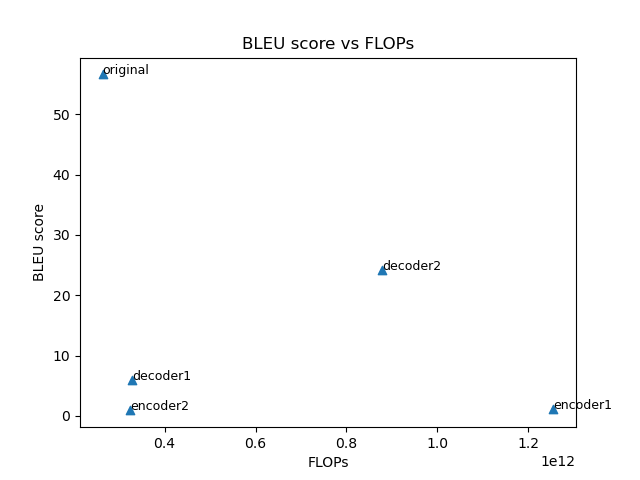
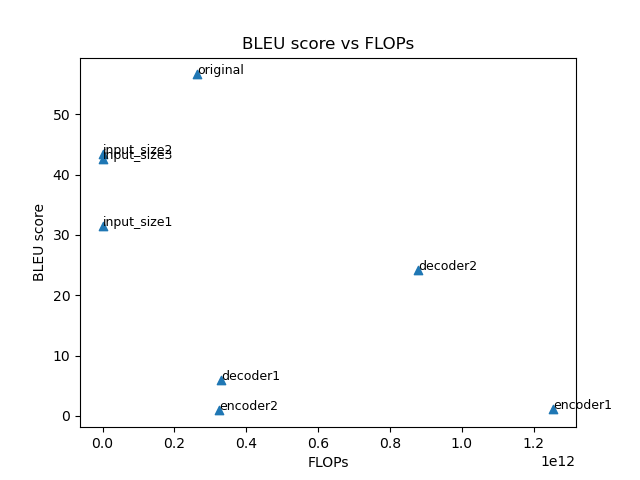
Add variable input sizes

diff --git a/lab2.py b/lab2.py
@@ -70,10 +70,25 @@ def main():
         config['encoder_conf']['linear_units'] = 1024
         return config
 
+    def input_size1(config: dict):
+        config['frontend_conf']['hop_length'] = 200
+        return config
+
+    def input_size2(config: dict):
+        config['frontend_conf']['hop_length'] = 250
+        return config
+
+    def input_size3(config: dict):
+        config['frontend_conf']['hop_length'] = 300
+        return config
+
     benchmark_modified_model(args, 'encoder1', pipeline.st_model, pretrained_config, utt2wav, utt2text, encoder1)
     benchmark_modified_model(args, 'encoder2', pipeline.st_model, pretrained_config, utt2wav, utt2text, encoder2)
     benchmark_modified_model(args, 'decoder1', pipeline.st_model, pretrained_config, utt2wav, utt2text, decoder1)
     benchmark_modified_model(args, 'decoder2', pipeline.st_model, pretrained_config, utt2wav, utt2text, decoder2)
+    benchmark_modified_model(args, 'input_size1', pipeline.st_model, pretrained_config, utt2wav, utt2text, input_size1)
+    benchmark_modified_model(args, 'input_size2', pipeline.st_model, pretrained_config, utt2wav, utt2text, input_size2)
+    benchmark_modified_model(args, 'input_size3', pipeline.st_model, pretrained_config, utt2wav, utt2text, input_size3)
 
 
 def benchmark_modified_model(

diff --git a/README.md b/README.md
@@ -19,3 +19,7 @@
 - https://github.com/mjpost/sacrebleu
 - Source code for speech translation inference: https://github.com/espnet/espnet/blob/master/espnet2/bin/st_inference.py
 - Source code for speech translation model: https://github.com/espnet/espnet/blob/master/espnet2/st/espnet_model.py
+
+# TODO
+
+- [ ] Some FLOPs are missing
